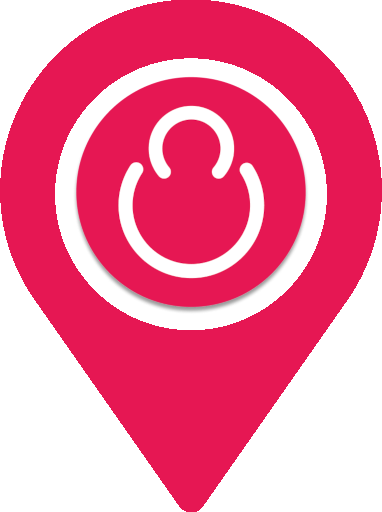
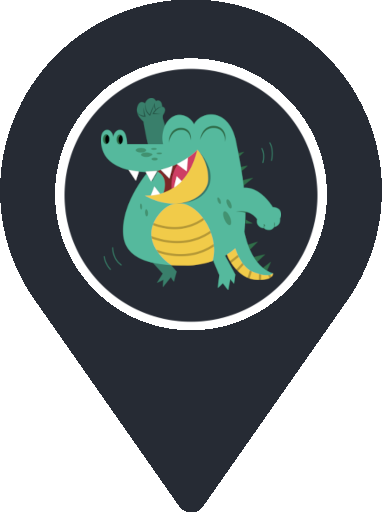
UpdateUI

diff --git a/lib/main.dart b/lib/main.dart
@@ -13,8 +13,11 @@ class MyApp extends StatelessWidget {
     return MaterialApp(
       debugShowCheckedModeBanner: false,
       title: 'Google Maps con Flutter',
-      theme: ThemeData(primarySwatch: Colors.indigo),
+      // theme: ThemeData(primarySwatch: Colors.indigo),
       home: const MyHomePage(title: 'Google Maps con Flutter'),
+      theme: ThemeData(
+        primaryColor: const Color(0xFF262b34),
+      ),
     );
   }
 }
@@ -30,7 +33,10 @@ class _MyHomePageState extends State<MyHomePage> {
   @override
   Widget build(BuildContext context) {
     return Scaffold(
-      appBar: AppBar(title: Text(widget.title)),
+      appBar: AppBar(
+        title: Text(widget.title),
+        backgroundColor: Theme.of(context).primaryColor,
+      ),
       body: const AppMap(),
     );
   }

diff --git a/lib/widgets/maps/maps.dart b/lib/widgets/maps/maps.dart
@@ -119,7 +119,7 @@ class _AppMapState extends State<AppMap> {
 
   void _buildIcon() {
     const iconLocation = "assets/images/map_co.png";
-    getBytesFromAsset(iconLocation, 76).then((onValue) {
+    getBytesFromAsset(iconLocation, 84).then((onValue) {
       setState(() => _markerIcon = BitmapDescriptor.fromBytes(onValue));
       _loadMarkers();
     });

diff --git a/lib/widgets/maps/marker_information.dart b/lib/widgets/maps/marker_information.dart
@@ -41,7 +41,7 @@ class MarkerInformation extends StatelessWidget {
                 Text(
                   markerInfo.title,
                   style: const TextStyle(
-                    color: Colors.indigo,
+                    color: Colors.teal,
                     fontWeight: FontWeight.w600,
                   ),
                 ),
